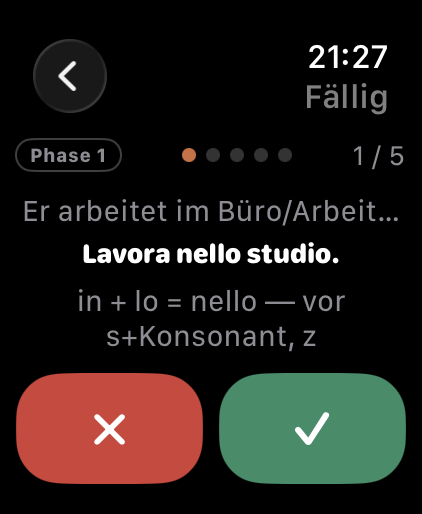
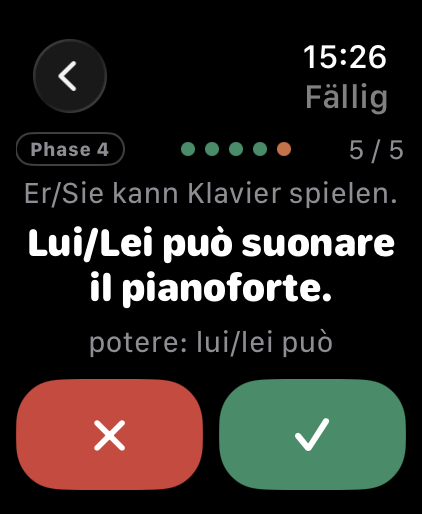
Let the card back scroll instead of cutting text off
The answer ran on one line and was truncated on longer cards. The back
is now its own scrolling view: no lineLimit, no minimumScaleFactor, and
fixedSize gives every text its full height, so question, answer, example
and note stand complete and the crown pages through them.

The front stays non-scrolling, because there the crown reveals the card.
Splitting the two also drops the manual top inset on the back, which the
scroll view supplies itself.

The walkthrough now reveals cards 1 and 3 with the crown, so losing the
crown focus across that switch would fail the test.

diff --git a/watch/ImparaWatch/Views/SessionView.swift b/watch/ImparaWatch/Views/SessionView.swift
@@ -34,38 +34,56 @@ struct SessionView: View {
     private var card: Card { cards[index] }
 
     private var cardView: some View {
-        VStack(spacing: 4) {
-            // Eine Kopfzeile: Phase, Fortschrittspunkte, Zähler.
-            HStack(spacing: 6) {
-                PhaseBadge(phase: store.phase6[card.id]?.phase)
-                Spacer(minLength: 2)
-                ProgressDots(count: cards.count, results: results, current: index)
-                Spacer(minLength: 2)
-                Text("\(index + 1) / \(cards.count)")
-                    .font(.footnote)
-                    .foregroundStyle(.secondary)
-            }
-
-            Spacer(minLength: 2)
-
+        Group {
             if revealed && !dimmed {
+                revealedView
+            } else {
+                coveredView
+            }
+        }
+    }
+
+    /// Kopfzeile: Phase, Fortschrittspunkte, Zähler.
+    private var header: some View {
+        HStack(spacing: 6) {
+            PhaseBadge(phase: store.phase6[card.id]?.phase)
+            Spacer(minLength: 2)
+            ProgressDots(count: cards.count, results: results, current: index)
+            Spacer(minLength: 2)
+            Text("\(index + 1) / \(cards.count)")
+                .font(.footnote)
+                .foregroundStyle(.secondary)
+        }
+    }
+
+    /// Rückseite. Sie rollt, damit lange Karten vollständig dastehen: kein
+    /// lineLimit, kein Verkleinern, jeder Text bekommt mit fixedSize seine
+    /// volle Höhe. Zum Lesen dreht man die Krone, die hier nicht mehr zum
+    /// Aufdecken gebraucht wird. Die ScrollView setzt den Inhalt selbst unter
+    /// die Navigationsleiste, ein eigener oberer Abstand entfällt.
+    private var revealedView: some View {
+        ScrollView {
+            VStack(spacing: 4) {
+                header
+
                 Text(card.front)
                     .font(.caption2)
                     .foregroundStyle(.secondary)
+                    .multilineTextAlignment(.center)
+                    .fixedSize(horizontal: false, vertical: true)
+
                 Text(card.back)
                     .font(.system(.title3, design: .rounded, weight: .heavy))
                     .multilineTextAlignment(.center)
-                    .minimumScaleFactor(0.7)
+                    .fixedSize(horizontal: false, vertical: true)
+
                 if !card.example.isEmpty {
-                    // Der Beispielsatz bekommt seine Zeilen garantiert; eher schrumpft die Antwort.
                     Text(card.example)
                         .font(.caption2)
                         .italic()
                         .foregroundStyle(.secondary)
                         .multilineTextAlignment(.center)
-                        .lineLimit(3)
                         .fixedSize(horizontal: false, vertical: true)
-                        .layoutPriority(1)
                         .padding(.top, 2)
                 }
                 if !card.notes.isEmpty {
@@ -74,24 +92,10 @@ struct SessionView: View {
                         .font(.caption2)
                         .foregroundStyle(.secondary)
                         .multilineTextAlignment(.center)
-                        .lineLimit(card.example.isEmpty ? 3 : 2)
                         .fixedSize(horizontal: false, vertical: true)
-                        .layoutPriority(1)
                         .padding(.top, 2)
                 }
-            } else {
-                Text(card.front)
-                    .font(.system(.title2, design: .rounded, weight: .heavy))
-                    .multilineTextAlignment(.center)
-                    .minimumScaleFactor(0.6)
-            }
 
-            Spacer(minLength: 2)
-
-            if dimmed {
-                // Always-On: nur die Vorderseite, keine Tasten.
-                Color.clear.frame(height: 1)
-            } else if revealed {
                 HStack(spacing: 8) {
                     Button { grade(false) } label: {
                         Image(systemName: "xmark").font(.title3.bold()).frame(maxWidth: .infinity)
@@ -104,6 +108,32 @@ struct SessionView: View {
                     .doubleTapAction()   // Doppeltipp = Richtig
                 }
                 .buttonStyle(.borderedProminent)
+                .padding(.top, 6)
+            }
+        }
+        .padding(.horizontal, 6)
+    }
+
+    /// Vorderseite, auch im Always-On-Zustand. Sie rollt nicht, damit die Krone
+    /// zum Aufdecken frei bleibt; deshalb hält sie sich mit eigenem Abstand
+    /// unter der Navigationsleiste: die bleibt 66pt hoch, Zurück-Pfeil und
+    /// Titel enden bei 58pt. Gemessen mit dem UI-Test, siehe README.
+    private var coveredView: some View {
+        VStack(spacing: 4) {
+            header
+
+            Spacer(minLength: 2)
+
+            Text(card.front)
+                .font(.system(.title2, design: .rounded, weight: .heavy))
+                .multilineTextAlignment(.center)
+                .minimumScaleFactor(0.5)
+
+            Spacer(minLength: 2)
+
+            if dimmed {
+                // Always-On: nur die Vorderseite, keine Tasten.
+                Color.clear.frame(height: 1)
             } else {
                 // Als Taste, damit der Doppeltipp die Karte aufdecken kann.
                 Button { reveal() } label: {
@@ -115,11 +145,6 @@ struct SessionView: View {
                 .doubleTapAction()   // Doppeltipp = Aufdecken
             }
         }
-        // Die Ansicht rollt nicht, damit die Krone zum Aufdecken frei bleibt;
-        // deshalb muss sie sich selbst unter der Navigationsleiste halten
-        // und seitlich Abstand vom Rand halten. Der Inline-Titel macht die
-        // Leiste nicht flacher: sie bleibt 66pt hoch, Zurück-Pfeil und Titel
-        // enden bei 58pt. Gemessen mit dem UI-Test, siehe README.
         .padding(.top, 28)
         .padding(.horizontal, 6)
         .contentShape(Rectangle())

diff --git a/watch/ImparaWatchUITests/FlowUITests.swift b/watch/ImparaWatchUITests/FlowUITests.swift
@@ -26,15 +26,17 @@ final class FlowUITests: XCTestCase {
         XCTAssertFalse(grade.exists, "Bewertungstasten dürfen vor dem Aufdecken nicht da sein")
 
         for round in 1...5 {
-            if round == 1 {
-                // Erste Karte über die Krone aufdecken, der Rest per Tippen.
+            // Karte 1 und 3 über die Krone aufdecken, die anderen per Tippen.
+            // Die Rückseite rollt inzwischen; der Kronen-Fokus der Vorderseite
+            // muss auch nach dem ersten Umschalten erhalten bleiben.
+            if round == 1 || round == 3 {
                 XCUIDevice.shared.rotateDigitalCrown(delta: 1.0)
-                XCTAssertTrue(grade.waitForExistence(timeout: 5), "Krone deckt die Karte nicht auf")
+                XCTAssertTrue(grade.waitForExistence(timeout: 5), "Krone deckt Karte \(round) nicht auf")
             } else {
                 center().tap()
                 XCTAssertTrue(grade.waitForExistence(timeout: 5), "Tippen deckt Karte \(round) nicht auf")
             }
-            if round == 1 { step("03-card-back") }
+            step("03-card-back-\(round)")
             grade.tap()
             sleep(1)
         }

diff --git a/watch/README.md b/watch/README.md
@@ -76,7 +76,7 @@ Ab watchOS 11 löst die Doppeltipp-Geste (Zeigefinger und Daumen zweimal zusamme
 | `Shared/SharedData.swift` | Datenbrücke zum Widget, Farben der Web-App |
 | `ImparaWatch/Store.swift` | Laden, Speichern, fällige Karten, Streak, Sitzungsprotokoll |
 | `ImparaWatch/Views/HomeView.swift` | Startbildschirm mit Ring und zwei Tasten |
-| `ImparaWatch/Views/SessionView.swift` | Kartenrunde: Tippen oder Krone deckt auf, zwei Tasten bewerten, Always-On zeigt nur die Vorderseite |
+| `ImparaWatch/Views/SessionView.swift` | Kartenrunde: Vorderseite rollt nicht, dort deckt Tippen oder Krone auf; die Rückseite rollt, damit lange Karten ungekürzt dastehen und die Krone durch den Text blättert; zwei Tasten bewerten, Always-On zeigt nur die Vorderseite |
 | `ImparaWatch/Views/BlitzView.swift` | Blitzrunde: fünf Wörter aus Grundwortschatz und Grammatik, drei Antworten, acht Sekunden |
 | `ImparaWatch/Views/ResultView.swift` | Ergebnis mit „Noch 5“ und „Fertig“ |
 | `ImparaWatch/Reminders.swift` | Eine Mitteilung pro Tag um 12:30, nur ab fünf fälligen Karten |
